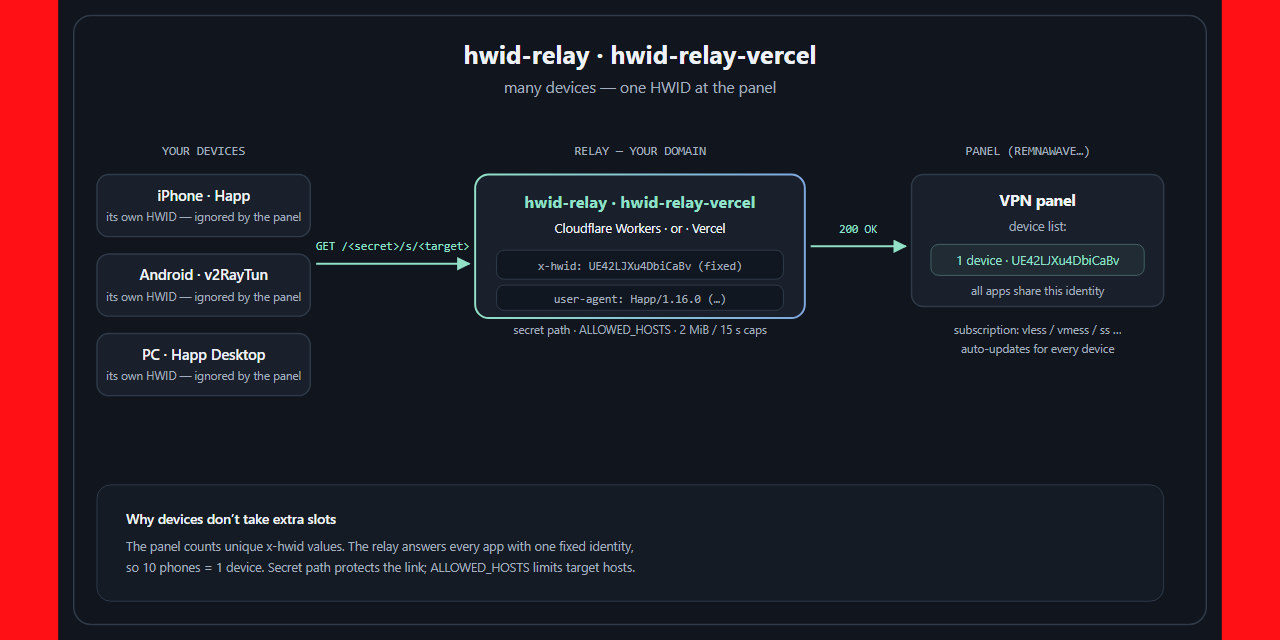
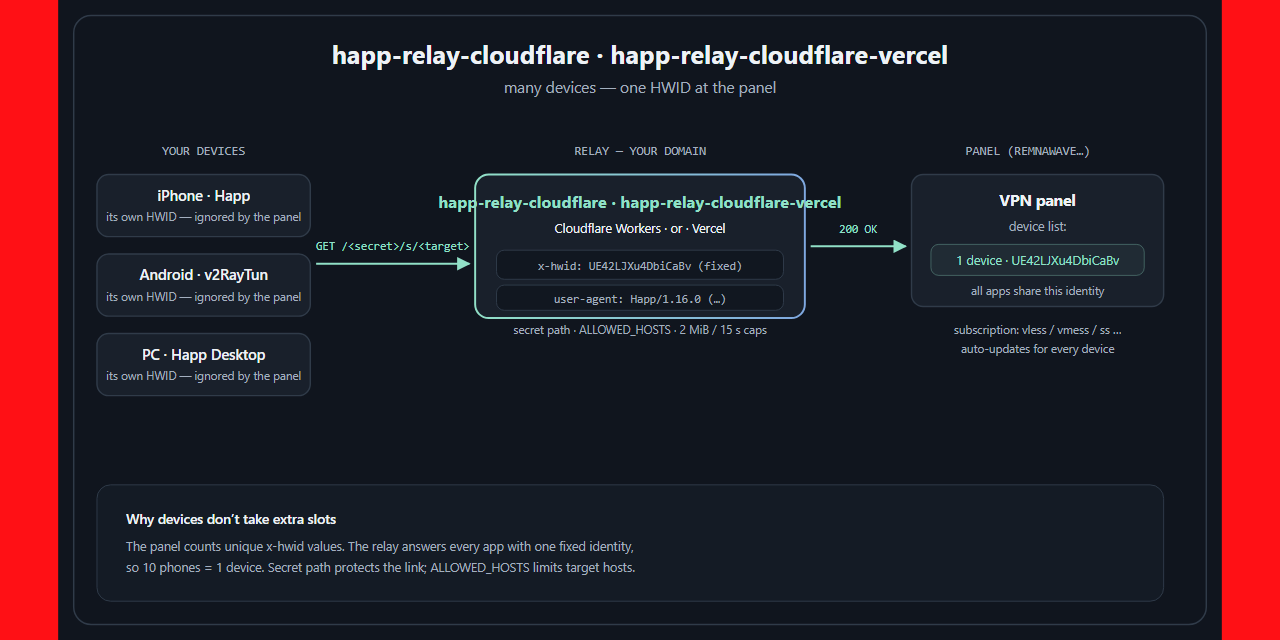
Rename companion repo to happ-relay-cloudflare

Changed region(s): [[0.25, 0.0625, 0.75, 0.125], [0.3438, 0.3125, 0.6562, 0.3438]]

diff --git a/README.ru.md b/README.ru.md
@@ -1,7 +1,7 @@
-# hwid-relay-vercel
+# happ-relay-cloudflare-vercel
 
-[![Tests](https://github.com/cylaro/hwid-relay-vercel/actions/workflows/test.yml/badge.svg)](https://github.com/cylaro/hwid-relay-vercel/actions/workflows/test.yml)
-[![Deploy with Vercel](https://vercel.com/button)](https://vercel.com/new/clone?repository-url=https%3A%2F%2Fgithub.com%2Fcylaro%2Fhwid-relay-vercel)
+[![Tests](https://github.com/cylaro/happ-relay-cloudflare-vercel/actions/workflows/test.yml/badge.svg)](https://github.com/cylaro/happ-relay-cloudflare-vercel/actions/workflows/test.yml)
+[![Deploy with Vercel](https://vercel.com/button)](https://vercel.com/new/clone?repository-url=https%3A%2F%2Fgithub.com%2Fcylaro%2Fhapp-relay-cloudflare-vercel)
 
 **Релей подписки на Vercel: подключайте сколько угодно устройств к панели с лимитом HWID — панель видит ровно одно устройство.**
 
@@ -11,7 +11,7 @@
 
 Панели вроде [Remnawave](https://docs.rw/features/hwid-device-limit) считают уникальные значения заголовка `x-hwid` на пользователя, а каждое приложение генерирует своё значение. Десять устройств превращаются в десять «устройств» и упираются в лимит. Значение формирует клиент и не меняется в приложении — но можно изменить **точку подключения**:
 
-![Архитектура hwid-relay-vercel: много устройств — один HWID на панели](docs/architecture.svg)
+![Архитектура happ-relay-cloudflare-vercel: много устройств — один HWID на панели](docs/architecture.svg)
 
 Приложения работают как обычно — релей это обычный HTTPS-адрес, возвращающий подписку с вашей идентичностью.
 
@@ -67,7 +67,7 @@ Cloudflare как DNS: зона → **DNS → Records** → A-запись `@` (
 ## Связанные проекты
 
 - [happ-decryptor](https://github.com/cylaro/happ-decryptor) — расшифровка `happ://crypt…`-ссылок, редактирование URL, запросы с заголовками устройства.
-- [hwid-relay](https://github.com/cylaro/hwid-relay) — тот же релей на Cloudflare Workers, если удобнее эта платформа.
+- [happ-relay-cloudflare](https://github.com/cylaro/happ-relay-cloudflare) — тот же релей на Cloudflare Workers, если удобнее эта платформа.
 
 ## Поддержать / Donate
 

diff --git a/README.md b/README.md
@@ -1,7 +1,7 @@
-# hwid-relay-vercel
+# happ-relay-cloudflare-vercel
 
-[![Tests](https://github.com/cylaro/hwid-relay-vercel/actions/workflows/test.yml/badge.svg)](https://github.com/cylaro/hwid-relay-vercel/actions/workflows/test.yml)
-[![Deploy with Vercel](https://vercel.com/button)](https://vercel.com/new/clone?repository-url=https%3A%2F%2Fgithub.com%2Fcylaro%2Fhwid-relay-vercel)
+[![Tests](https://github.com/cylaro/happ-relay-cloudflare-vercel/actions/workflows/test.yml/badge.svg)](https://github.com/cylaro/happ-relay-cloudflare-vercel/actions/workflows/test.yml)
+[![Deploy with Vercel](https://vercel.com/button)](https://vercel.com/new/clone?repository-url=https%3A%2F%2Fgithub.com%2Fcylaro%2Fhapp-relay-cloudflare-vercel)
 
 **A one-file subscription relay on Vercel: connect many devices to a panel with a HWID device limit — the panel sees exactly one device.**
 
@@ -11,7 +11,7 @@
 
 Panels such as [Remnawave](https://docs.rw/features/hwid-device-limit) count unique `x-hwid` header values per user, and client apps generate a different value per device. Ten devices become ten "devices" and hit the limit. Since the header is generated by the client, you cannot change it in the app — but you can change **where the app connects**:
 
-![hwid-relay-vercel architecture: many devices — one HWID at the panel](docs/architecture.svg)
+![happ-relay-cloudflare-vercel architecture: many devices — one HWID at the panel](docs/architecture.svg)
 
 Apps keep working normally — the relay is a plain HTTPS endpoint that returns the subscription with your fixed identity.
 
@@ -67,7 +67,7 @@ To verify the identity before connecting devices, use the Request tab of [happ-d
 ## Related projects
 
 - [happ-decryptor](https://github.com/cylaro/happ-decryptor) — decrypt `happ://crypt…` links, edit subscription URLs, send requests with device headers.
-- [hwid-relay](https://github.com/cylaro/hwid-relay) — the same relay on Cloudflare Workers, if you prefer that platform.
+- [happ-relay-cloudflare](https://github.com/cylaro/happ-relay-cloudflare) — the same relay on Cloudflare Workers, if you prefer that platform.
 
 ## Support / Donate
 
